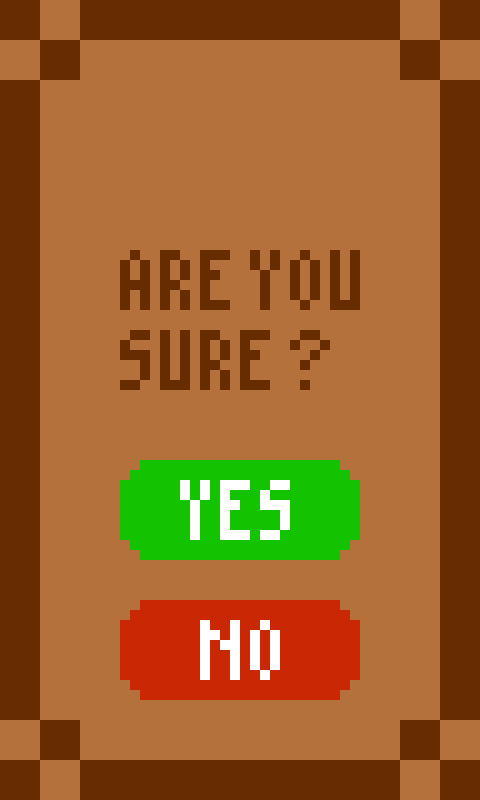
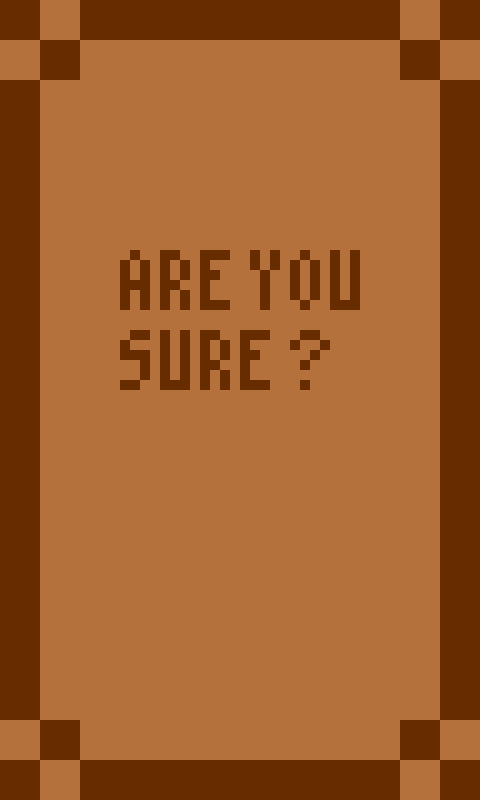
Add abstract class buttons and pictures for buttons

Changed region(s): [[0.25, 0.5625, 0.75, 0.7188], [0.25, 0.75, 0.75, 0.875]]

diff --git a/core/src/g11/mygdx/game/modules/HomeButton.java b/core/src/g11/mygdx/game/modules/HomeButton.java
@@ -1,38 +1,24 @@
 package g11.mygdx.game.modules;
 
-import com.badlogic.gdx.Gdx;
 import com.badlogic.gdx.graphics.Texture;
 import com.badlogic.gdx.graphics.g2d.Sprite;
-import com.badlogic.gdx.scenes.scene2d.Stage;
-import com.badlogic.gdx.scenes.scene2d.ui.Dialog;
-import com.badlogic.gdx.scenes.scene2d.ui.Skin;
 
 import g11.mygdx.game.BattleSheep;
 
-public class HomeButton {
+public class HomeButton extends Button {
 
     private Sprite homeButton;
     private Sprite modalSprite;
 
-    public HomeButton() {
+    public HomeButton(Sprite buttonSprite) {
+        super(buttonSprite);
+
         Texture homeButtonTexture = new Texture("home.png");
         this.homeButton = new Sprite(homeButtonTexture, homeButtonTexture.getWidth() / 6, homeButtonTexture.getHeight() / 6);
         this.homeButton.setPosition((float) 10, (float) BattleSheep.HEIGHT - 10 - this.homeButton.getHeight());
 
         Texture goHomeTexture = new Texture("go_home_modal.png");
         this.modalSprite = new Sprite(goHomeTexture, goHomeTexture.getWidth() / 2, goHomeTexture.getHeight() / 2);
-    }
-
-    public boolean isClicked(float x, float y) {
-        if (x >= this.homeButton.getX()
-                && x <= (this.homeButton.getX() + this.homeButton.getWidth())
-                && y >= this.homeButton.getY()
-                && y <= (this.homeButton.getY() + this.homeButton.getHeight())) {
-            return true;
-
-        }
-
-        return false;
     }
 
 

diff --git a/core/src/g11/mygdx/game/states/InGameState.java b/core/src/g11/mygdx/game/states/InGameState.java
@@ -16,7 +16,7 @@ public class InGameState implements IState {
     private Array<Sprite> opponentBoard;
     private Array<Sprite> myBoard;
     private Array<String> inGameMessages;
-    private HomeButton homeButton = new HomeButton();
+    private HomeButton homeButton;
     private double col = 0;
     private double row = 0;
     private float LEFTBORDER = 1 + BattleSheep.WIDTH / 20;
@@ -32,13 +32,21 @@ public class InGameState implements IState {
         this.enemyAnimals = new Array<Integer>();
         loadData();
         System.out.println(this.opponentBoard.size);
+
+        Texture homeButtonTexture = new Texture("home.png");
+        Sprite homeButtonSprite = new Sprite(homeButtonTexture, homeButtonTexture.getWidth() / 6, homeButtonTexture.getHeight() / 6);
+        homeButtonSprite.setPosition((float) 10, (float) BattleSheep.HEIGHT - 10 - homeButtonSprite.getHeight());
+
+        this.homeButton = new HomeButton(homeButtonSprite);
+
     }
 
 
     @Override
     public String parseInput(float[] data) {
         if (this.homeButton.isClicked(data[0], data[1])) {
-            return "menuState";
+            ConfirmationState confirmation = new ConfirmationState("inGameStatus", "menuState");
+
         }
         float[] spritePosition = new float[2];
         float spriteX;

diff --git a/core/src/g11/mygdx/game/states/ConfirmationState.java b/core/src/g11/mygdx/game/states/ConfirmationState.java
@@ -1,0 +1,49 @@
+package g11.mygdx.game.states;
+
+import com.badlogic.gdx.graphics.Texture;
+import com.badlogic.gdx.graphics.g2d.Sprite;
+import com.badlogic.gdx.utils.Array;
+
+public class ConfirmationState implements IState {
+
+    private String previousState;
+    private String nextState;
+    private Sprite confirmationScreen;
+
+    public ConfirmationState(String previousState, String nextState) {
+
+        this.previousState = previousState;
+        this.nextState = nextState;
+
+        Texture confirmationScreenTexture = new Texture("confirmation.png");
+        this.confirmationScreen = new Sprite();
+
+    }
+
+    public String confirmUserChoice() {
+
+        return previousState;
+    }
+
+    @Override
+    public String parseInput(float[] data) {
+        return null;
+    }
+
+    @Override
+    public Array<String> serveMessages() {
+        return null;
+    }
+
+    @Override
+    public Array<Sprite> serveData() {
+        Array<Sprite> sprites = new Array<Sprite>();
+        sprites.add(this.confirmationScreen);
+        return sprites;
+    }
+
+    @Override
+    public void loadData() {
+
+    }
+}

diff --git a/core/src/g11/mygdx/game/modules/Button.java b/core/src/g11/mygdx/game/modules/Button.java
@@ -1,0 +1,25 @@
+package g11.mygdx.game.modules;
+
+import com.badlogic.gdx.graphics.g2d.Sprite;
+
+public abstract class Button {
+
+    private Sprite button;
+
+    public Button(Sprite buttonSprite) {
+        this.button = buttonSprite;
+    }
+
+    public boolean isClicked(float x, float y) {
+        if (x >= this.button.getX()
+                && x <= (this.button.getX() + this.button.getWidth())
+                && y >= this.button.getY()
+                && y <= (this.button.getY() + this.button.getHeight())) {
+            return true;
+
+        }
+
+        return false;
+    }
+
+}

diff --git a/core/src/g11/mygdx/game/modules/YesButton.java b/core/src/g11/mygdx/game/modules/YesButton.java
@@ -1,0 +1,11 @@
+package g11.mygdx.game.modules;
+
+import com.badlogic.gdx.graphics.g2d.Sprite;
+
+public class YesButton extends Button {
+
+    public YesButton(Sprite buttonSprite) {
+        super(buttonSprite);
+    }
+
+}

diff --git a/core/src/g11/mygdx/game/modules/NoButton.java b/core/src/g11/mygdx/game/modules/NoButton.java
@@ -1,0 +1,11 @@
+package g11.mygdx.game.modules;
+
+import com.badlogic.gdx.graphics.g2d.Sprite;
+
+public class NoButton extends Button {
+
+
+    public NoButton(Sprite buttonSprite) {
+        super(buttonSprite);
+    }
+}
